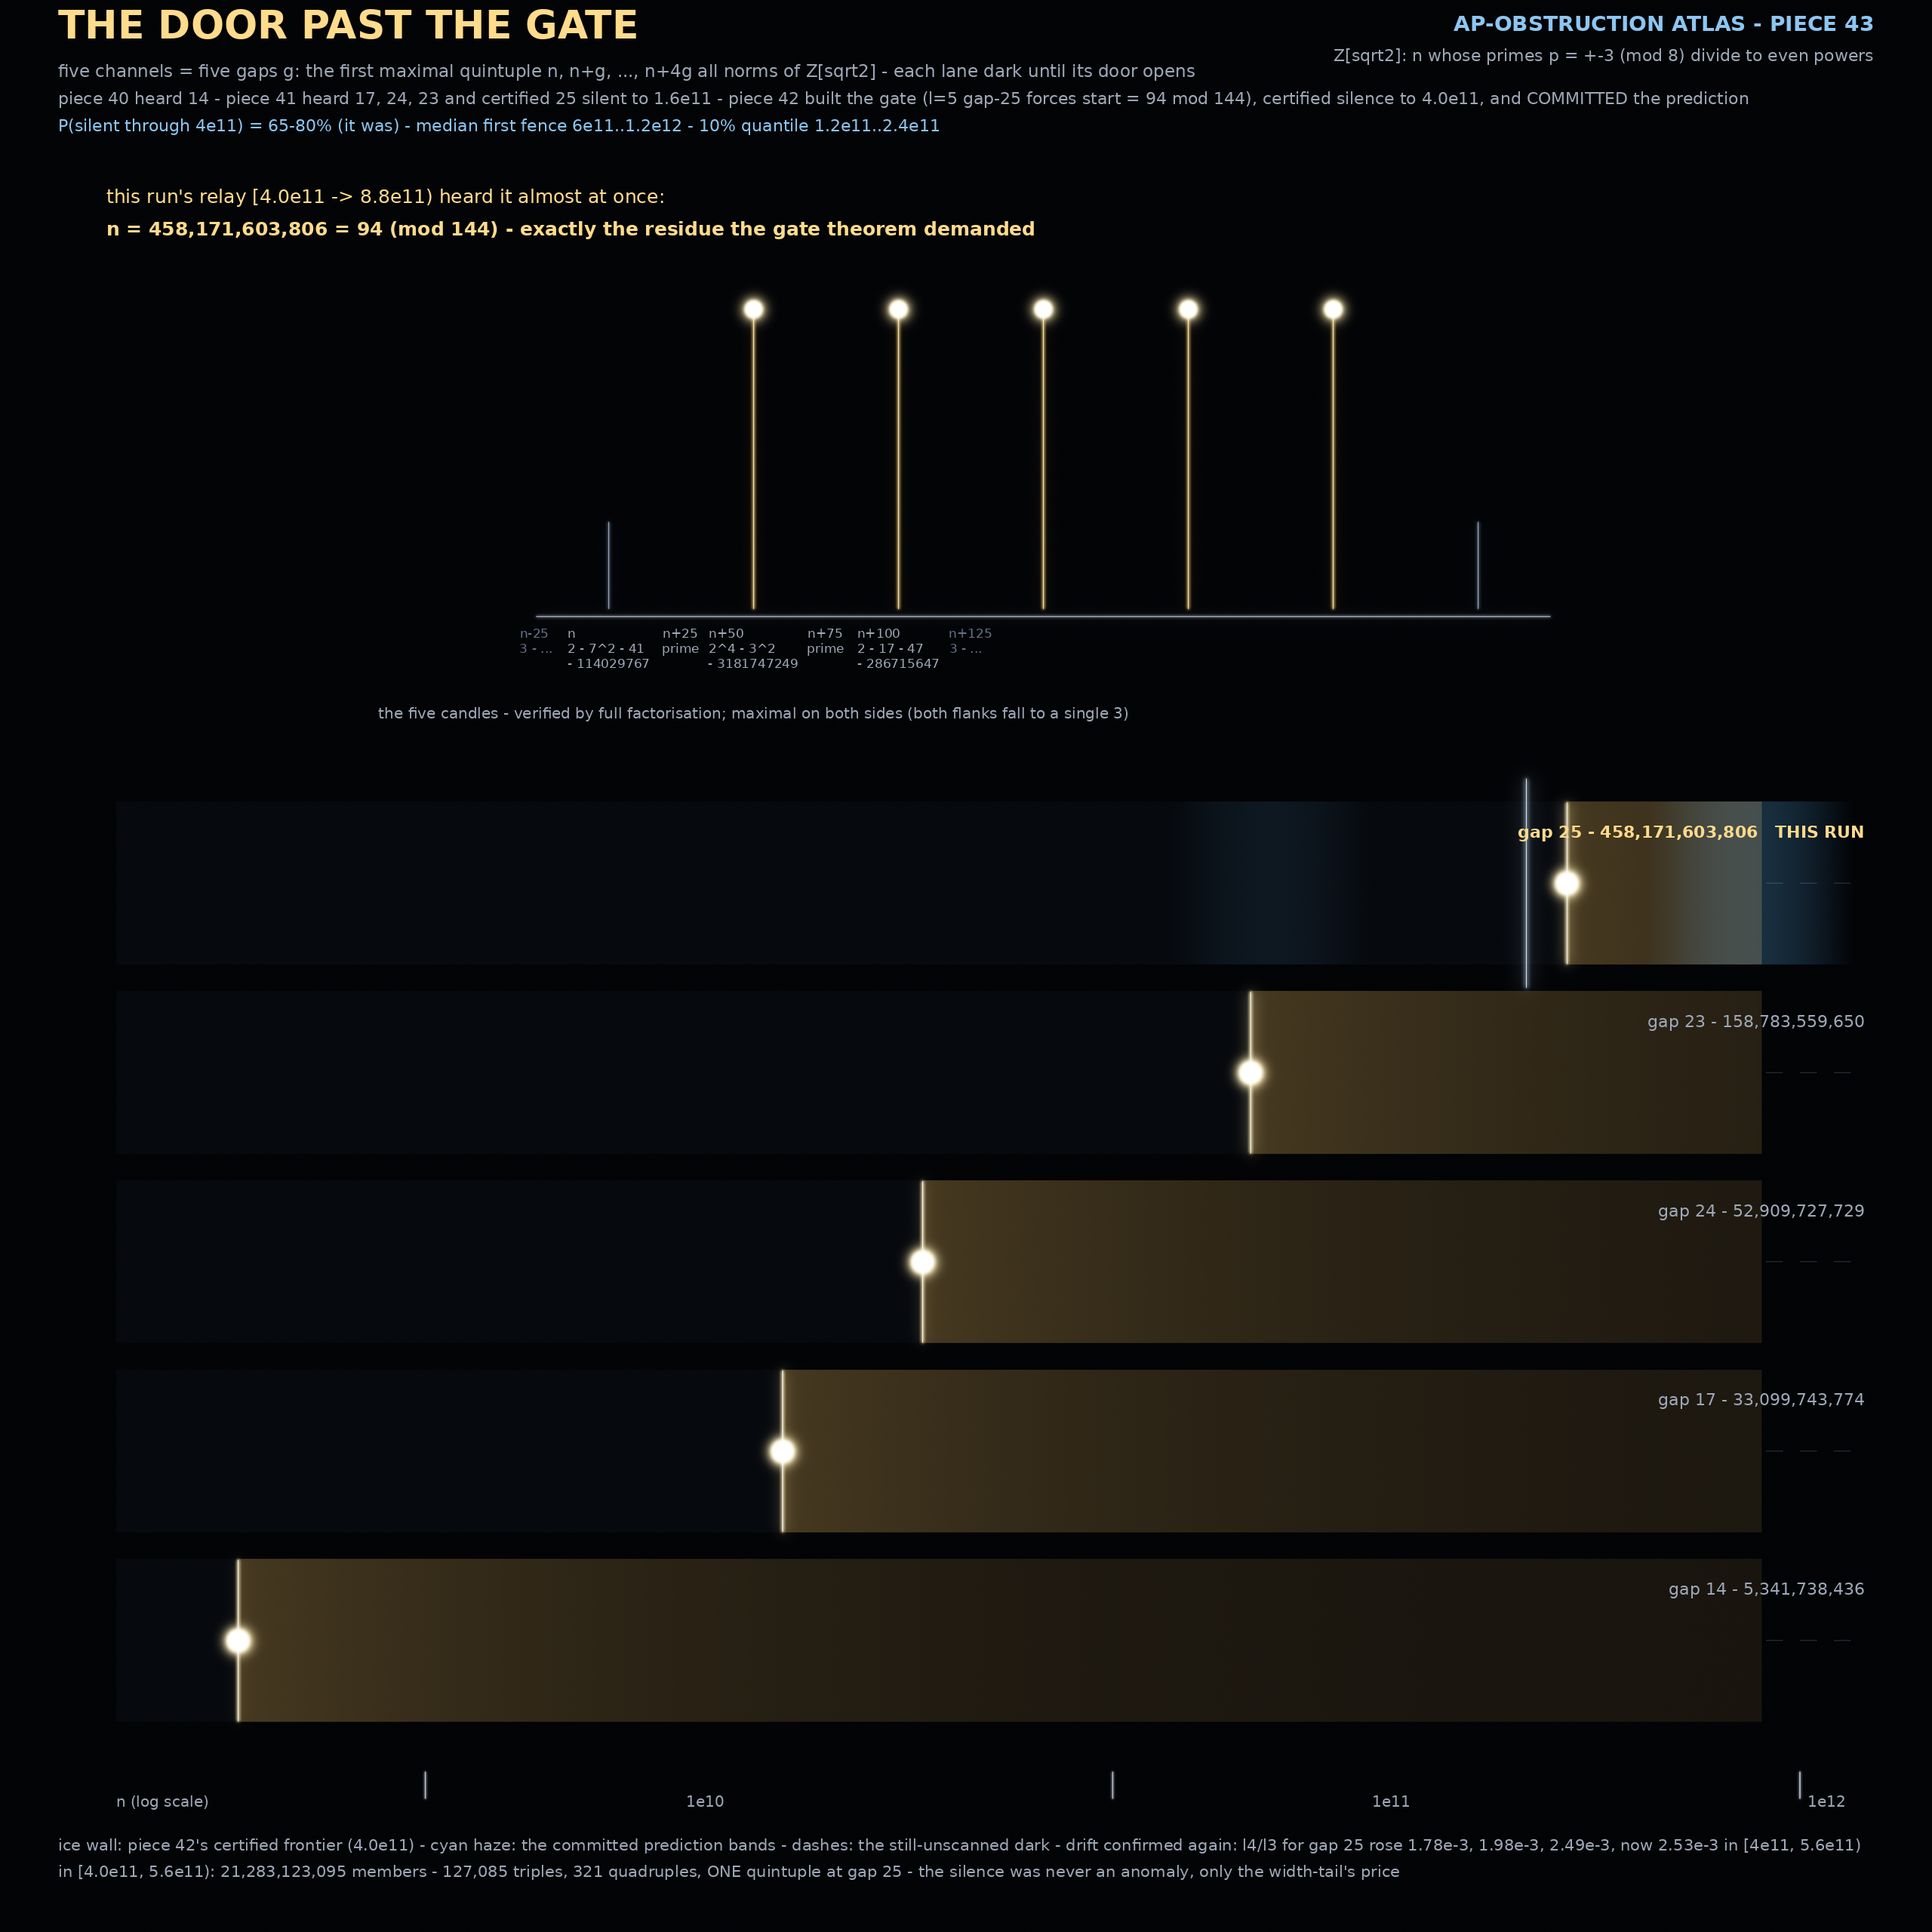
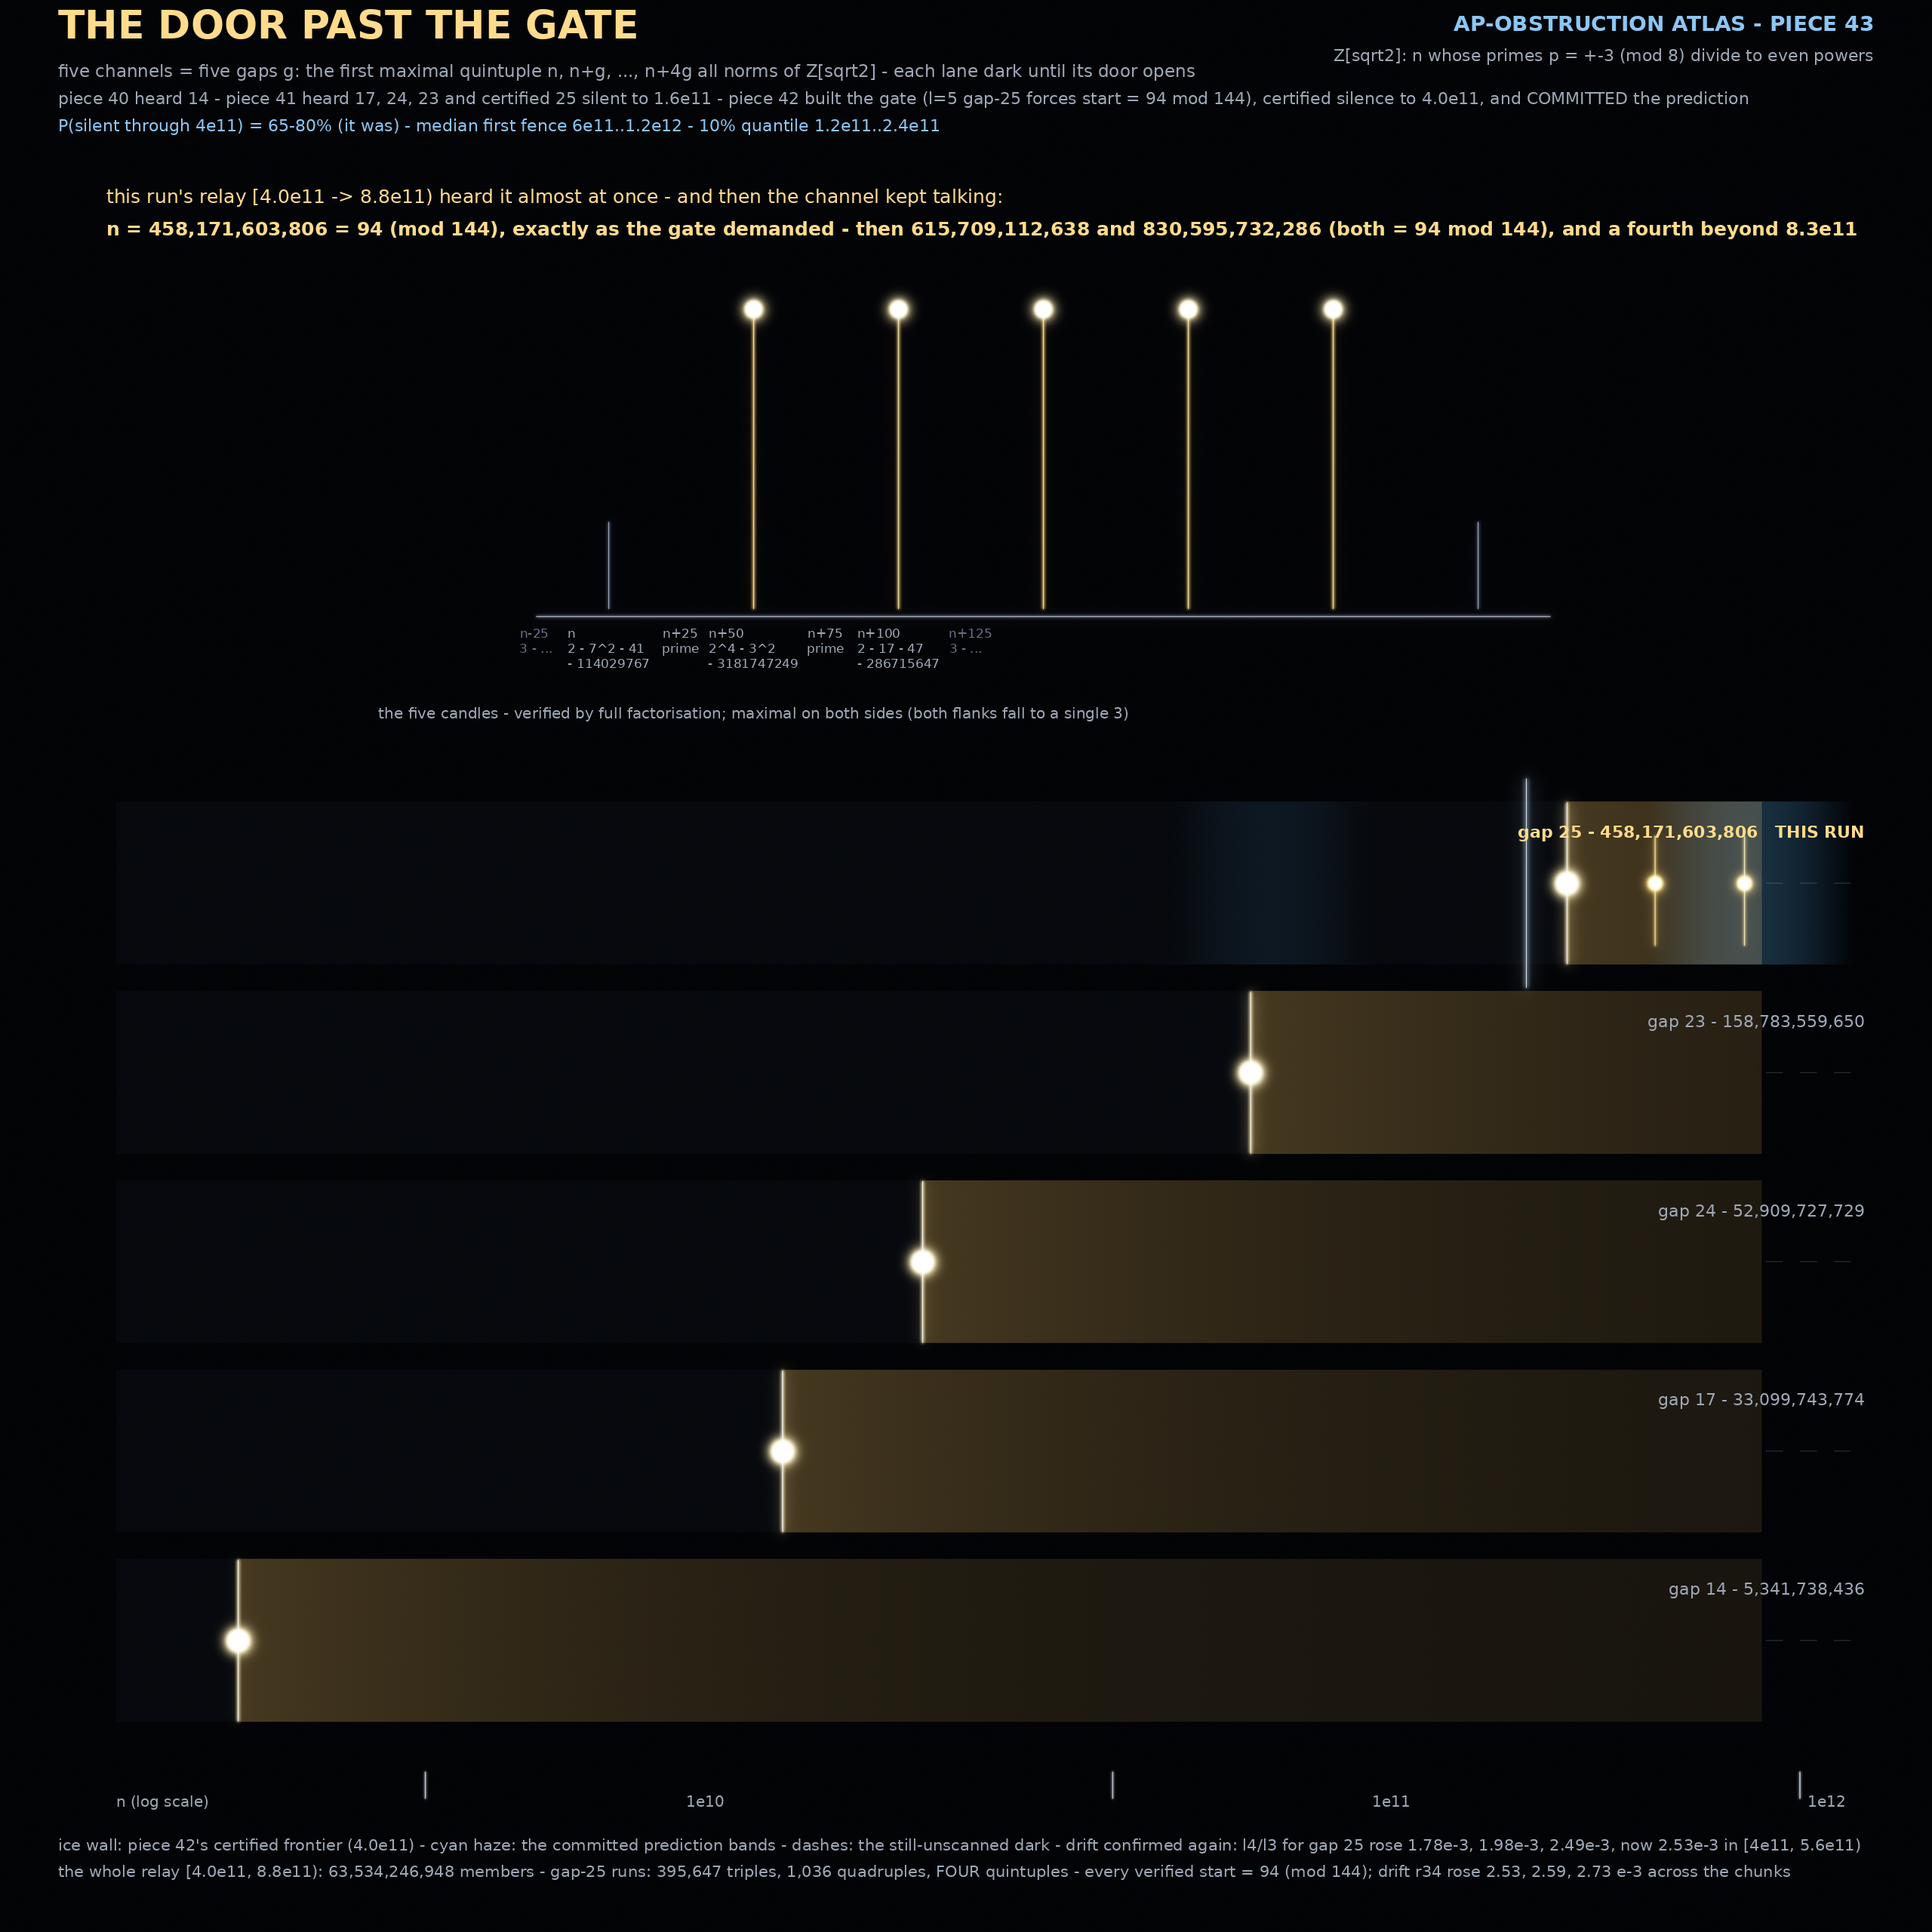
art_l0ks: relay complete to 8.8e11 — channel 25 kept talking (fences 2 and 3 verified, both 94 mod 144); atlas piece and ledgers updated
Claude-Session: https://claude.ai/code/session_016ZnziEvXxfQW6qD9Cor2cq

diff --git a/art_l0ks/atlas_render.py b/art_l0ks/atlas_render.py
@@ -67,8 +67,14 @@ def main():
         A.polyline(bar, np.array([[xd, y_top+2], [xd, y_bot-2]]), GOLD_HI, amp=3.2*rs**0.85*0.5)
         A.star(bar, xd, (y_top+y_bot)/2, GOLD_HI, amp=3.4*rs*rs*0.25, rad=4.2*rs*0.5)
         img += A.bloom(bar, sigmas=(1.6*rs*0.5, 7*rs*0.5), weights=(1.0, 0.4))
-        # lane 25 extras: ice gate at 4e11 + prediction nebula
+        # lane 25 extras: ice gate at 4e11 + prediction nebula + later fences
         if g == 25:
+            for nf in (615709112638, 830595732286):
+                xf = xof(nf)
+                fb = A.canvas(S)
+                A.polyline(fb, np.array([[xf, y_top+laneh*0.18], [xf, y_bot-laneh*0.10]]), GOLD, amp=2.0*rs**0.85*0.5)
+                A.star(fb, xf, (y_top+y_bot)/2, GOLD, amp=1.8*rs*rs*0.25, rad=3.0*rs*0.5)
+                img += A.bloom(fb, sigmas=(1.5*rs*0.5, 6*rs*0.5), weights=(1.0, 0.35))
             xg = xof(GATE42)
             gate = A.canvas(S)
             A.polyline(gate, np.array([[xg, y_top-0.012*S], [xg, y_bot+0.012*S]]), ICE, amp=2.2*rs**0.85*0.5)
@@ -117,8 +123,8 @@ def main():
       (0.030*F, 0.040*F, "five channels = five gaps g: the first maximal quintuple n, n+g, ..., n+4g all norms of Z[sqrt2] - each lane dark until its door opens", int(0.0090*F), GREY, False, 'ls'),
       (0.030*F, 0.054*F, "piece 40 heard 14 - piece 41 heard 17, 24, 23 and certified 25 silent to 1.6e11 - piece 42 built the gate (l=5 gap-25 forces start = 94 mod 144), certified silence to 4.0e11, and COMMITTED the prediction", int(0.0088*F), GREY, False, 'ls'),
       (0.030*F, 0.068*F, "P(silent through 4e11) = 65-80% (it was) - median first fence 6e11..1.2e12 - 10% quantile 1.2e11..2.4e11", int(0.0088*F), CYANt, False, 'ls'),
-      (0.055*F, 0.105*F, "this run's relay [4.0e11 -> 8.8e11) heard it almost at once:", int(0.0100*F), GOLDt, False, 'ls'),
-      (0.055*F, 0.122*F, "n = 458,171,603,806 = 94 (mod 144) - exactly the residue the gate theorem demanded", int(0.0100*F), GOLDt, True, 'ls'),
+      (0.055*F, 0.105*F, "this run's relay [4.0e11 -> 8.8e11) heard it almost at once - and then the channel kept talking:", int(0.0100*F), GOLDt, False, 'ls'),
+      (0.055*F, 0.122*F, "n = 458,171,603,806 = 94 (mod 144), exactly as the gate demanded - then 615,709,112,638 and 830,595,732,286 (both = 94 mod 144), and a fourth beyond 8.3e11", int(0.0100*F), GOLDt, True, 'ls'),
       # candle labels
       (0.315*F, 0.330*F, "n\n2 - 7^2 - 41\n- 114029767", int(0.0068*F), GREY, False, 'ms'),
       (0.3525*F, 0.330*F, "n+25\nprime", int(0.0068*F), GREY, False, 'ms'),
@@ -140,7 +146,7 @@ def main():
       (0.72*F, 0.935*F, "1e11", int(0.0082*F), GREY, False, 'ms'),
       (0.955*F, 0.935*F, "1e12", int(0.0082*F), GREY, False, 'rs'),
       (0.030*F, 0.958*F, "ice wall: piece 42's certified frontier (4.0e11) - cyan haze: the committed prediction bands - dashes: the still-unscanned dark - drift confirmed again: l4/l3 for gap 25 rose 1.78e-3, 1.98e-3, 2.49e-3, now 2.53e-3 in [4e11, 5.6e11)", int(0.0084*F), GREY, False, 'ls'),
-      (0.030*F, 0.9715*F, "in [4.0e11, 5.6e11): 21,283,123,095 members - 127,085 triples, 321 quadruples, ONE quintuple at gap 25 - the silence was never an anomaly, only the width-tail's price", int(0.0084*F), GREY, False, 'ls'),
+      (0.030*F, 0.9715*F, "the whole relay [4.0e11, 8.8e11): 63,534,246,948 members - gap-25 runs: 395,647 triples, 1,036 quadruples, FOUR quintuples - every verified start = 94 (mod 144); drift r34 rose 2.53, 2.59, 2.73 e-3 across the chunks", int(0.0084*F), GREY, False, 'ls'),
     ]
     outb = A.bake_text(small, texts, F)
     A.save(outb, 'atlas43_final.png', final=None, dither=False)

diff --git a/art_l0ks/verification.md b/art_l0ks/verification.md
@@ -106,5 +106,12 @@ Scripts: `tri_science.py` (mechanism tests), `tri_precise.py` (M̄, C to depth),
   r34(gap 25) = 321/127085 = 2.53e-3 in [4,5.6e11) (was 1.78/1.98/2.49e-3).
 - Census chunk 1: |S ∩ [4.0e11, 5.6e11)| = 21,283,123,095;
   gap-25 maximal runs: l=3: 127,085 · l=4: 321 · l=5: 1.
-- Relay continues: chunks [5.6e11, 7.2e11) and [7.2e11, 8.8e11) (see
-  hunt_rungap_*.txt when finished).
+- RELAY COMPLETE [4.0e11, 8.8e11), 63,534,246,948 members: after the first
+  fence the channel kept talking — SECOND quintuple at 615,709,112,638
+  (chunk 2) and THIRD at 830,595,732,286 (chunk 3), both verified by full
+  factorization + flank maximality, both ≡ 94 (mod 144) — the gate theorem
+  is 3-for-3 on real fences. Chunk 3's table records maximal_runs=2, so a
+  FOURTH quintuple lies in (8.31e11, 8.8e11) (start not logged by the
+  first-only alarm; left for piece 44). Totals for gap 25 over the relay:
+  395,647 triples, 1,036 quadruples, 4 quintuples; r34 by chunk
+  2.53e-3 / 2.59e-3 / 2.73e-3 — the depth-drift law rises again.
